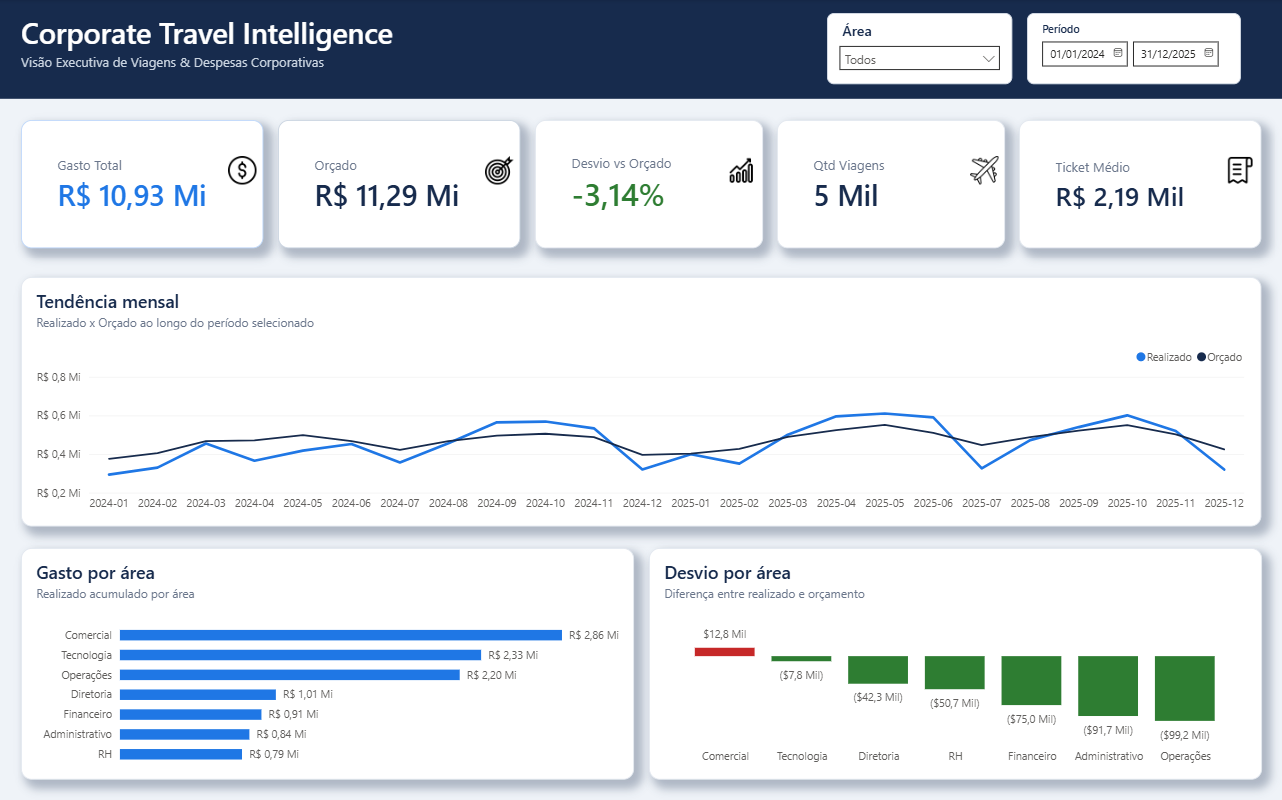
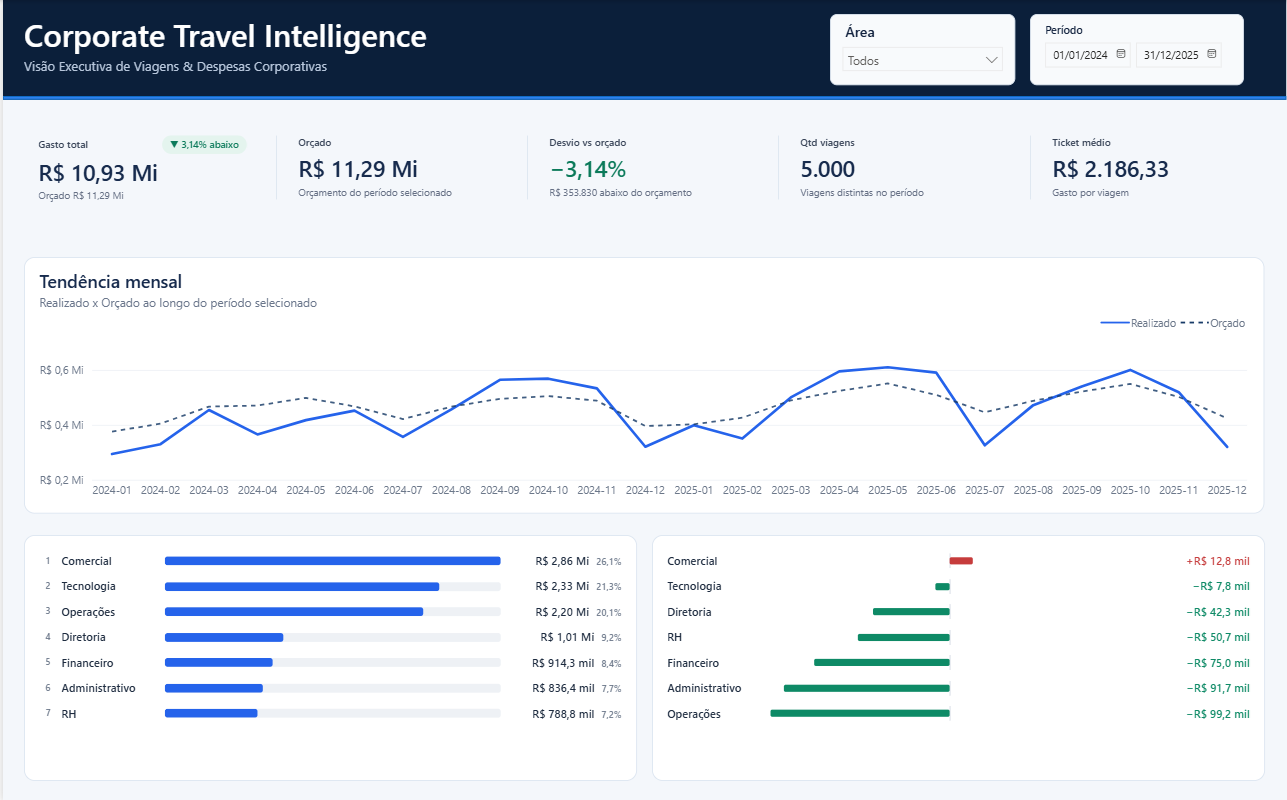
docs: refresh portfolio README and dashboard captures

diff --git a/README.md b/README.md
@@ -1,115 +1,65 @@
+<div align="center">
+
 # Corporate Travel Intelligence
 
-Projeto de Business Intelligence para gestão de viagens corporativas, desenvolvido em Power BI no formato PBIP/PBIR. O case combina dados sintéticos, tratamento em Power Query, modelo semântico em TMDL, medidas DAX, design executivo e versionamento da camada visual.
+### Inteligência financeira para transformar viagens corporativas em decisões claras de custo, orçamento e eficiência.
 
-> Os dados são integralmente sintéticos. O projeto foi construído para portfólio e não representa uma empresa ou operação real.
+![Power BI](https://img.shields.io/badge/Power_BI-F2C811?style=flat-square&logo=powerbi&logoColor=111827)
+![DAX](https://img.shields.io/badge/DAX-2563EB?style=flat-square&logoColor=white)
+![Power Query](https://img.shields.io/badge/Power_Query-0F8A68?style=flat-square&logoColor=white)
+![PBIP / PBIR](https://img.shields.io/badge/PBIP_%2F_PBIR-172B4D?style=flat-square&logoColor=white)
+![TMDL](https://img.shields.io/badge/TMDL-64748B?style=flat-square&logoColor=white)
 
-![Visão Executiva](assets/dashboard_visao_executiva_clean.png)
+</div>
 
-## Objetivo do projeto
+> **Projeto de portfólio com dados integralmente sintéticos.** Nenhum dado representa uma empresa, pessoa ou operação real.
 
-Consolidar custos, orçamento e indicadores operacionais de viagens para responder duas perguntas principais:
+O **Corporate Travel Intelligence** é uma solução de Business Intelligence desenvolvida em Power BI para acompanhar despesas de viagens, execução orçamentária e eficiência operacional. O projeto combina tratamento de dados, modelagem semântica, medidas DAX, design executivo e autoria versionável em PBIP/PBIR.
 
-1. **Como está a operação?** — visão executiva de gasto, orçamento, volume e tendência.
-2. **Onde estão os gastos e desvios?** — aprofundamento financeiro por mês, categoria, área e centro de custo.
+**7 fontes CSV · 5.000 viagens distintas · 2 páginas analíticas · modelo e relatório versionados como código**
 
-O projeto demonstra competências em modelagem e medidas DAX, Power Query, qualidade de dados, dashboards executivos, autoria PBIP/PBIR como código e documentação técnica.
+## Visão geral
 
-## Estado atual do dashboard
+Custos de viagens normalmente estão distribuídos entre solicitações, despesas, orçamento, aéreo e hospedagem. Sem uma visão integrada, torna-se difícil responder rapidamente:
 
-O relatório possui duas páginas em canvas `1440 × 900`:
+- Quanto foi gasto e como o realizado se compara ao orçamento?
+- Quais áreas e centros de custo concentram os maiores desvios?
+- Como o gasto evolui ao longo do tempo?
+- Quais categorias explicam a composição das despesas registradas?
 
-| Página | Pergunta respondida | Conteúdo atual |
-|---|---|---|
-| `01 - Visão Executiva` | Como está a operação? | Cinco KPIs, tendência mensal, gasto por área, desvio por área e filtros de Área e Período |
-| `02 - Custos & Orçamento` | Onde gastamos e onde estão os desvios? | Cinco KPIs, realizado x orçamento mensal, composição das despesas, desvios por área, comparação por centro de custo e matriz de detalhamento |
+A solução consolida essas fontes em um modelo semântico com calendário e dimensões compartilhadas, oferecendo uma leitura executiva e uma camada de investigação financeira detalhada.
 
-### Página 1 — Visão Executiva
+## Dashboard
 
-- KPIs: Gasto Total, Orçado, Desvio %, Qtd Viagens e Ticket Médio.
-- Tendência mensal: Realizado e Orçado por `DimData[AnoMes]`.
-- Ranking de gasto por área em HTML Content.
-- Desvio orçamentário divergente por área em HTML Content.
-- Filtros de Área e Período.
+### 01 · Visão Executiva
 
-### Página 2 — Custos & Orçamento
+Leitura rápida da operação: gasto total, orçamento, desvio percentual, quantidade de viagens e ticket médio. A página combina tendência mensal, ranking de gasto e desvio orçamentário por área, com filtros de Área e Período.
 
-![Custos e Orçamento](assets/dashboard_custos_orcamento.png)
+![Página 01 — Visão Executiva](assets/dashboard_visao_executiva_clean.png)
 
-- KPIs: Gasto Total, Orçado, Desvio R$, Desvio % e Saving.
-- Orçado x Realizado por mês, com realizado em colunas e orçamento em linha.
-- Composição das despesas por `despesas_raw[categoria]` em barras proporcionais (HTML Content).
-- Desvio por área em barras divergentes (HTML Content).
-- Orçado x Realizado por Centro de Custo.
-- Matriz de detalhamento financeiro.
+### 02 · Custos & Orçamento
 
-### Refinamento analítico identificado
+Aprofundamento financeiro por mês, categoria, área e centro de custo. Inclui composição das despesas, comparação entre realizado e orçamento, ranking de desvios e matriz para investigação dos valores.
 
-Os gráficos `Tendência mensal`, na Página 1, e `Orçado x Realizado por mês`, na Página 2, usam as mesmas medidas e granularidade. Embora tenham representações diferentes, existe sobreposição analítica. A evolução recomendada é manter a tendência na Página 1 e substituir o gráfico da Página 2 por um **Desvio mensal**, com barras divergentes em torno de zero.
+![Página 02 — Custos e Orçamento](assets/dashboard_custos_orcamento.png)
 
-## Regras de negócio essenciais
+## Indicadores e funcionalidades
 
-### Gasto e orçamento
+- **Gasto Total e Orçado** com comparação no contexto dos filtros selecionados.
+- **Desvio R$ e Desvio %**, onde valores positivos indicam gasto acima do orçamento e valores negativos indicam execução abaixo do orçamento.
+- **Quantidade de viagens e Ticket Médio** calculados sobre viagens distintas.
+- **Saving Estimado**, apresentado separadamente do desvio orçamentário e tratado como indicador experimental da fonte.
+- **Tendência mensal** de realizado e orçamento pela dimensão calendário oficial.
+- **Análises por área, categoria e centro de custo**, com rankings, barras proporcionais e detalhamento financeiro.
+- **Filtros de Área e Período** aplicados ao realizado e ao orçamento por dimensões compartilhadas.
 
-- **Gasto Total** é a soma de `viagens_raw[gasto_total_realizado]`.
-- **Orçado** é a soma de `orcamento_raw[orcado]`.
-- O orçamento está no grão **mês × centro de custo**.
-- Realizado e orçamento compartilham o contexto temporal pela `DimData` e o contexto organizacional por `centros_custo_raw`.
-
-### Desvio orçamentário
-
-```DAX
-Desvio R$ = [Gasto Total] - [Orçado]
-```
-
-| Resultado numérico | Interpretação | Cor |
-|---:|---|---|
-| Maior que zero | Gasto acima do orçamento; situação desfavorável | Vermelho |
-| Menor que zero | Gasto abaixo do orçamento; situação favorável | Verde |
-| Igual a zero | Execução exatamente igual ao orçamento | Neutro |
-
-Um desvio exibido como `(R$ 43 mil)` ou `-R$ 43 mil`, em verde, significa que a operação gastou **R$ 43 mil abaixo do orçamento**. Ele é favorável para o negócio, embora seja numericamente negativo.
-
-```DAX
-Desvio % = DIVIDE([Desvio R$], [Orçado], 0)
-```
-
-### Saving não é desvio orçamentário
-
-O desvio compara o realizado com o **orçamento aprovado**. O saving compara o realizado com um **valor de referência da viagem**.
-
-```DAX
-Saving Estimado = SUM(viagens_raw[saving_estimado])
-
-Saving % =
-DIVIDE(
-    [Saving Estimado],
-    SUM(viagens_raw[valor_referencia]),
-    0
-)
-```
-
-Por utilizarem bases diferentes, `Desvio R$` e `Saving Estimado` não precisam coincidir. Exemplo: orçamento de R$ 1.000, referência de R$ 900 e realizado de R$ 800 produzem R$ 200 de desvio favorável e R$ 100 de saving.
-
-> **Limitação conhecida:** no CSV atual, 30 das 5.000 viagens distintas não reconciliam `saving_estimado = valor_referencia - gasto_total_realizado`. A diferença acumulada dessas ocorrências é R$ 65.338,70. Até a regra ser revisada, Saving deve ser tratado como indicador experimental, não como KPI financeiro auditado.
-
-### Composição por categoria
-
-- A composição por categoria usa `SUM(despesas_raw[valor])`.
-- Ela representa a distribuição das **despesas registradas**, não a decomposição integral do `Gasto Total`.
-- Aéreo e hospedagem estão em estruturas próprias e no consolidado de viagens.
-- O orçamento não possui categoria; portanto, não é correto decompor o orçamento em Aéreo, Hospedagem, Alimentação etc.
-- Por esse motivo, o waterfall por categoria não foi implementado. A alternativa adotada foi comparar Orçado e Realizado por Centro de Custo.
-
-As regras completas estão em [docs/business_rules.md](docs/business_rules.md), e o catálogo de medidas em [docs/kpi_dictionary.md](docs/kpi_dictionary.md).
-
-## Arquitetura
+## Arquitetura técnica
 
 ```mermaid
 flowchart LR
-    A[CSVs sintéticos] --> B[Power Query / M]
+    A[7 fontes CSV sintéticas] --> B[Power Query / M]
     B --> C[Modelo semântico TMDL]
-    C --> D[DimData e relacionamentos]
+    C --> D[DimData e dimensões compartilhadas]
     C --> E[Medidas DAX]
     D --> F[Relatório PBIR]
     E --> F
@@ -117,141 +67,83 @@ flowchart LR
     F --> H[Git / GitHub]
 ```
 
-| Camada | Implementação |
-|---|---|
-| Fonte | Sete arquivos CSV sintéticos |
-| Transformação | Consultas M armazenadas nas partitions TMDL |
-| Modelo | Nove tabelas, incluindo `DimData` e `_Medidas` |
-| Métricas | 34 medidas DAX em `_Medidas` (21 de negócio + 13 de apresentação HTML) |
-| Relatório | Duas páginas PBIR, 28 visuais no total |
-| Visual customizado | HTML Content em 14 visuais (KPIs e barras); Deneb permanece registrado, sem uso |
-| Versionamento | PBIP/PBIR, TMDL, JSON, Markdown e Git |
+- **Transformação:** tipagem, tratamento de datas, localidade numérica, duplicidades, grafias inconsistentes e campos ausentes no Power Query.
+- **Modelagem:** fatos de viagens, despesas, orçamento, aéreo e hospedagem conectados a dimensões organizacionais, cadastrais e temporais.
+- **Métricas:** medidas centralizadas em `_Medidas`, com `DimData` explícita e Auto Date/Time desativado.
+- **Apresentação:** visuais nativos e HTML Content para KPIs, rankings e barras analíticas.
+- **Versionamento:** páginas, visuais, medidas e metadados mantidos em PBIP, PBIR, TMDL, JSON e Markdown.
 
-## Modelo de dados
+## Regra financeira central
 
-| Tabela | Papel | Grão |
-|---|---|---|
-| `viagens_raw` | Fato principal | Uma viagem consolidada |
-| `despesas_raw` | Fato de despesas | Uma despesa por viagem |
-| `orcamento_raw` | Fato orçamentário | Um mês por centro de custo |
-| `aereo_raw` | Detalhamento aéreo | Um registro aéreo por viagem |
-| `hospedagem_raw` | Detalhamento de hospedagem | Um registro por viagem |
-| `viajantes_raw` | Dimensão cadastral | Um viajante |
-| `centros_custo_raw` | Dimensão organizacional | Um centro de custo |
-| `DimData` | Dimensão calendário | Um dia entre 2024 e 2025 |
-| `_Medidas` | Tabela técnica | Medidas DAX |
-
-O Auto Date/Time foi desativado. A análise temporal principal depende explicitamente de `DimData[Data]`, relacionada a `viagens_raw[data_ida]` e `orcamento_raw[mes_referencia]`.
-
-Veja [docs/modeling.md](docs/modeling.md) e [docs/data_dictionary.md](docs/data_dictionary.md).
-
-## Dados e qualidade
-
-| Arquivo | Linhas brutas | Chave lógica |
-|---|---:|---|
-| `viagens_raw.csv` | 5.015 | `viagem_id` |
-| `despesas_raw.csv` | 15.402 | `despesa_id` |
-| `orcamento_raw.csv` | 552 | `mes_referencia` + `centro_custo_id` |
-| `aereo_raw.csv` | 4.564 | `viagem_id` |
-| `hospedagem_raw.csv` | 3.999 | `viagem_id` |
-| `viajantes_raw.csv` | 190 | `viajante_id` |
-| `centros_custo_raw.csv` | 23 | `centro_custo_id` |
-
-O Power Query trata tipos, localidade numérica, datas inválidas, duplicidades, grafias inconsistentes e campos ausentes. Depois do tratamento, permanecem 5.000 viagens distintas e 15.372 despesas distintas.
-
-Detalhes em [docs/etl.md](docs/etl.md).
-
-## Design e experiência
-
-O dashboard utiliza um sistema visual corporativo único:
-
-- canvas `1440 × 900` e fundo `#F4F7FB`;
-- header azul-marinho `#0B1F3A`;
-- azul `#2F80ED` para realizado e informação principal;
-- verde `#159B76` exclusivamente para situação favorável;
-- vermelho `#D94B4B` exclusivamente para situação desfavorável;
-- cards brancos, borda `#DCE5F0`, raio de 12 px e sombras mínimas;
-- espaçamento baseado em múltiplos de 8 px;
-- filtros de Área e Período integrados ao header.
-
-Os filtros das duas páginas utilizam os mesmos campos, mas ainda não estão sincronizados entre páginas. Veja [docs/design_system.md](docs/design_system.md).
-
-## Estrutura do repositório
-
-```text
-.
-├── Corporate_Travel_Intelligence.pbip
-├── Corporate_Travel_Intelligence.Report/
-│   └── definition/pages/
-├── Corporate_Travel_Intelligence.SemanticModel/
-│   └── definition/
-├── *_raw.csv
-├── assets/
-├── docs/
-├── scripts/
-│   ├── build_page2.js
-│   └── generate_synthetic_data.py
-├── POWERBI_TECHNICAL_MAP.md
-└── README.md
+```DAX
+Desvio R$ = [Gasto Total] - [Orçado]
 ```
+
+- **Maior que zero:** gasto acima do orçamento, situação desfavorável em vermelho.
+- **Menor que zero:** gasto abaixo do orçamento, situação favorável em verde.
+- **Igual a zero:** execução aderente ao orçamento.
+
+O **Saving Estimado** utiliza o valor de referência da viagem, enquanto o desvio utiliza o orçamento aprovado. As duas métricas possuem bases diferentes e não devem ser reconciliadas como se representassem o mesmo conceito.
+
+## Tecnologias
+
+- **Power BI Desktop**, Power Query / M e DAX
+- **PBIP, PBIR, TMDL e JSON** para autoria e versionamento
+- **HTML Content** para componentes visuais orientados por medidas
+- **Python** para geração determinística de dados sintéticos
+- **Node.js** para automação da estrutura PBIR da Página 02
+- **Git e GitHub** para controle de versão e documentação
 
 ## Como executar
 
 1. Clone o repositório.
-2. Abra `Corporate_Travel_Intelligence.pbip` no Power BI Desktop.
-3. Caso necessário, ajuste os caminhos absolutos dos CSVs nas consultas Power Query.
-4. Atualize os dados.
-5. Navegue entre `01 - Visão Executiva` e `02 - Custos & Orçamento`.
+2. Abra [`Corporate_Travel_Intelligence.pbip`](Corporate_Travel_Intelligence.pbip) no Power BI Desktop.
+3. Ajuste os caminhos locais dos CSVs nas consultas Power Query, se necessário.
+4. Atualize os dados e navegue entre as páginas `01 - Visão Executiva` e `02 - Custos & Orçamento`.
 
-### Validação PBIR
-
-Com o pacote `@microsoft/powerbi-report-authoring-cli` instalado:
+Para validar a estrutura PBIR com o pacote `@microsoft/powerbi-report-authoring-cli` instalado:
 
 ```powershell
 powerbi-report-author validate Corporate_Travel_Intelligence.Report --pretty
 ```
 
-Última validação executada durante a construção da Página 2: **0 erros**. Os avisos restantes estavam limitados à indisponibilidade dos schemas remotos da Microsoft durante a execução.
+## Estrutura principal
+
+```text
+.
+├── Corporate_Travel_Intelligence.pbip
+├── Corporate_Travel_Intelligence.Report/
+├── Corporate_Travel_Intelligence.SemanticModel/
+├── assets/
+├── docs/
+├── scripts/
+├── *_raw.csv
+├── POWERBI_TECHNICAL_MAP.md
+└── README.md
+```
+
+## Documentação técnica
+
+- [Arquitetura](docs/architecture.md) — camadas, componentes e fluxo do projeto.
+- [Regras de negócio](docs/business_rules.md) — semântica financeira, filtros e limitações.
+- [Modelagem](docs/modeling.md) — tabelas, relacionamentos e calendário.
+- [Dicionário de dados](docs/data_dictionary.md) — campos, tipos, grãos e chaves.
+- [Dicionário de KPIs](docs/kpi_dictionary.md) — medidas DAX e interpretação.
+- [ETL e qualidade](docs/etl.md) — transformações e controles de qualidade.
+- [Design system](docs/design_system.md) — identidade visual e padrões de interface.
+- [Decisões técnicas](docs/decisions.md) — ADRs e trade-offs do projeto.
+- [Automação PBIR](docs/pbir_automation.md) — autoria, validação e guardrails.
+- [Mapa técnico do Power BI](POWERBI_TECHNICAL_MAP.md) — páginas, visuais, medidas e caminhos dos artefatos.
 
 ## Limitações conhecidas
 
-- Os caminhos das fontes CSV estão absolutos e precisam ser parametrizados para portabilidade completa.
-- Os filtros Área e Período ainda não estão sincronizados entre as duas páginas.
-- Os dois gráficos mensais atuais apresentam sobreposição analítica.
-- O orçamento não possui granularidade por categoria.
-- O Saving possui 30 registros distintos sem reconciliação com referência menos realizado.
-- Não há refresh em nuvem, RLS, gateway, autenticação ou integração com sistemas reais.
-- O projeto não deve ser usado como benchmark financeiro ou operacional.
-
-## Documentação
-
-| Documento | Conteúdo |
-|---|---|
-| [Regras de negócio](docs/business_rules.md) | Semântica financeira, sinais, cores, grãos e limitações |
-| [Arquitetura](docs/architecture.md) | Camadas, componentes e fluxo técnico |
-| [Modelagem](docs/modeling.md) | Tabelas, relacionamentos e calendário |
-| [Dicionário de dados](docs/data_dictionary.md) | Campos, tipos, grãos e chaves |
-| [Dicionário de KPIs](docs/kpi_dictionary.md) | Medidas DAX e interpretação |
-| [ETL e qualidade](docs/etl.md) | Transformações Power Query |
-| [Design system](docs/design_system.md) | Paleta, layout e padrões visuais |
-| [Decisões técnicas](docs/decisions.md) | ADRs e trade-offs |
-| [Automação PBIR](docs/pbir_automation.md) | Autoria, validação e estrutura visual |
-| [Roadmap](docs/roadmap.md) | Entregas concluídas e próximas etapas |
-| [Auditoria do repositório](docs/repository_audit.md) | Inventário técnico atual |
-| [Mapa técnico PBIR](POWERBI_TECHNICAL_MAP.md) | IDs, caminhos, medidas, HTML Content e regras de edição |
-| [Plano de redesign HTML](PLANO_REDESIGN_HTML_CONTENT.md) | Diagnóstico e plano da camada HTML Content |
-
-## Tecnologias
-
-- Power BI Desktop
-- Power Query / M
-- DAX
-- PBIP / PBIR / JSON
-- TMDL
-- HTML Content (custom visual)
-- Node.js
-- Git e GitHub
+- As consultas M ainda utilizam caminhos absolutos para os CSVs e podem exigir ajuste em outra máquina.
+- Os filtros de Área e Período usam os mesmos campos, mas ainda não estão sincronizados entre páginas.
+- Os gráficos mensais das duas páginas apresentam sobreposição analítica.
+- O orçamento não possui granularidade por categoria; por isso, a composição de despesas não representa uma decomposição do orçamento.
+- Trinta viagens não reconciliam `saving_estimado = valor_referencia - gasto_total_realizado`; o Saving não deve ser tratado como métrica financeira auditada.
+- O projeto não inclui refresh em nuvem, RLS, gateway ou integração com sistemas reais.
 
 ## Autor
 
-Marcos Ramos
+**Marcos Ramos**
